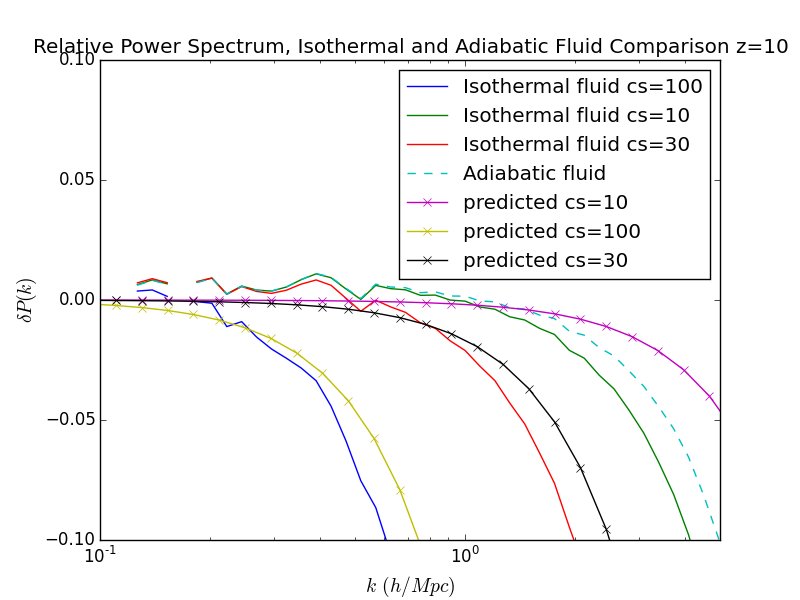
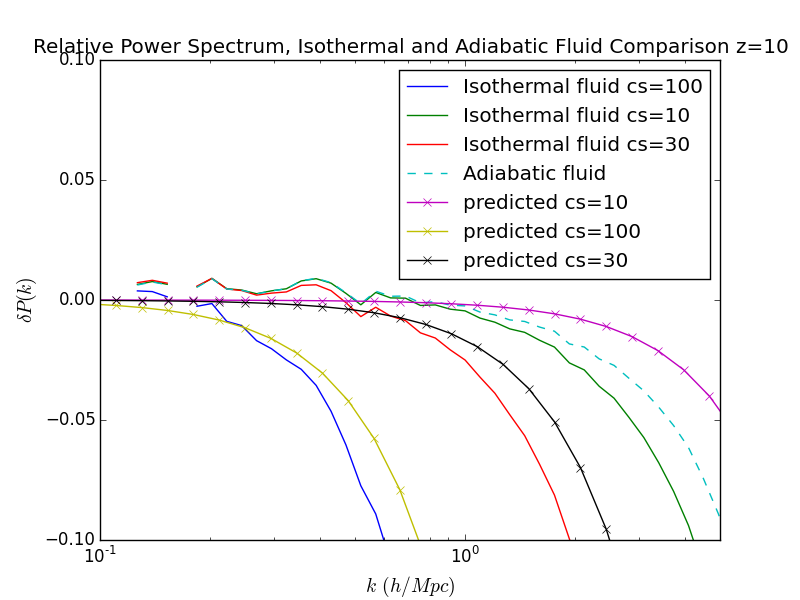
Fixed base comparison to z=100.

diff --git a/plots/isothermal/isothermal_fluid_low_adiabatic_normalized_particle_z10_minpressure.py b/plots/isothermal/isothermal_fluid_low_adiabatic_normalized_particle_z10_minpressure.py
@@ -15,7 +15,7 @@ for simtype in simtypes:
     params = [simtype,'b100','n1024','t0.005','h2','iso','z10_','z100']
     filenames = [filename for filename in results if all(param in filename for param in params)]
     filenames.append('fluid_b100_n1024_t0.005_h2_z100_z10.out')
-    base = 'particle_b100_n1024_t0.005_h2_z10.out'
+    base = 'particle_b100_n1024_t0.005_h2_z100_z10.out'
     
     kvalues_base, ps_base = np.loadtxt(result_dir+base, unpack=True)
 
